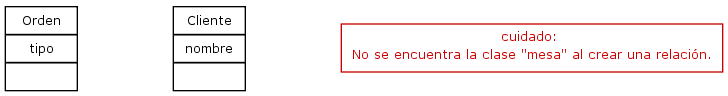
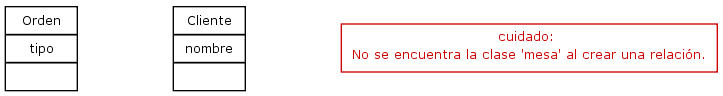
ocultando mensajes de error del diagrama.

diff --git a/quickdiagrams/main.py b/quickdiagrams/main.py
@@ -6,24 +6,27 @@ import pac_parser
 class Diagram:
     """Representa un diagrama completo."""
 
-    def __init__(self):
+    def __init__(self, disable_visible_warnings=False):
         self.content = []
         self.digraph = yapgvb.Digraph()
         self.nodes = {}
         self.digraph.rankdir = "BT"
         self.digraph.nodesep = 1
+        self.disable_visible_warnings = disable_visible_warnings
 
     def add_warning_message(self, message):
         "Mustra un mensaje de advertencia en el diagrama."
 
-        node = self.digraph.add_node(message)
-        node.shape = 'record'
-        node.fontsize = 10
-        node.fontname = "Verdana"
-        node.color = "red3"
-        node.fontcolor = "red3"
-        node.label = "cuidado: \n" + message
         print "Cuidado: " + message
+
+        if not self.disable_visible_warnings:
+            node = self.digraph.add_node(message)
+            node.shape = 'record'
+            node.fontsize = 10
+            node.fontname = "Verdana"
+            node.color = "red3"
+            node.fontcolor = "red3"
+            node.label = "cuidado: \n" + message
 
     def read(self, input_file_name):
         "Lee un modelo de clases desde un archivo de texto."
@@ -125,7 +128,7 @@ class Diagram:
                 from_node = self.get_node_from_name(rel.from_name)
                 to_node = self.get_node_from_name(rel.to_name)
             except KeyError, msg:
-                msg_error = "No se encuentra la clase '%s' al crear una relación."
+                msg_error = "No se encuentra la clase %s al crear una relación."
                 self.add_warning_message(msg_error %(msg))
                 return
 

diff --git a/visualclient/test.py b/visualclient/test.py
@@ -104,7 +104,7 @@ class Application:
         self.view.window.set_title(title)
 
     def draw_diagram(self):
-        self.diagram = quickdiagrams.Diagram()
+        self.diagram = quickdiagrams.Diagram(disable_visible_warnings=True)
         text_model = self.get_model_text_as_list()
         self.diagram.read_from_string(text_model)
         self.diagram.save(TEMPORALY_FILEOUTPUT, 'png', disable_output=True)
